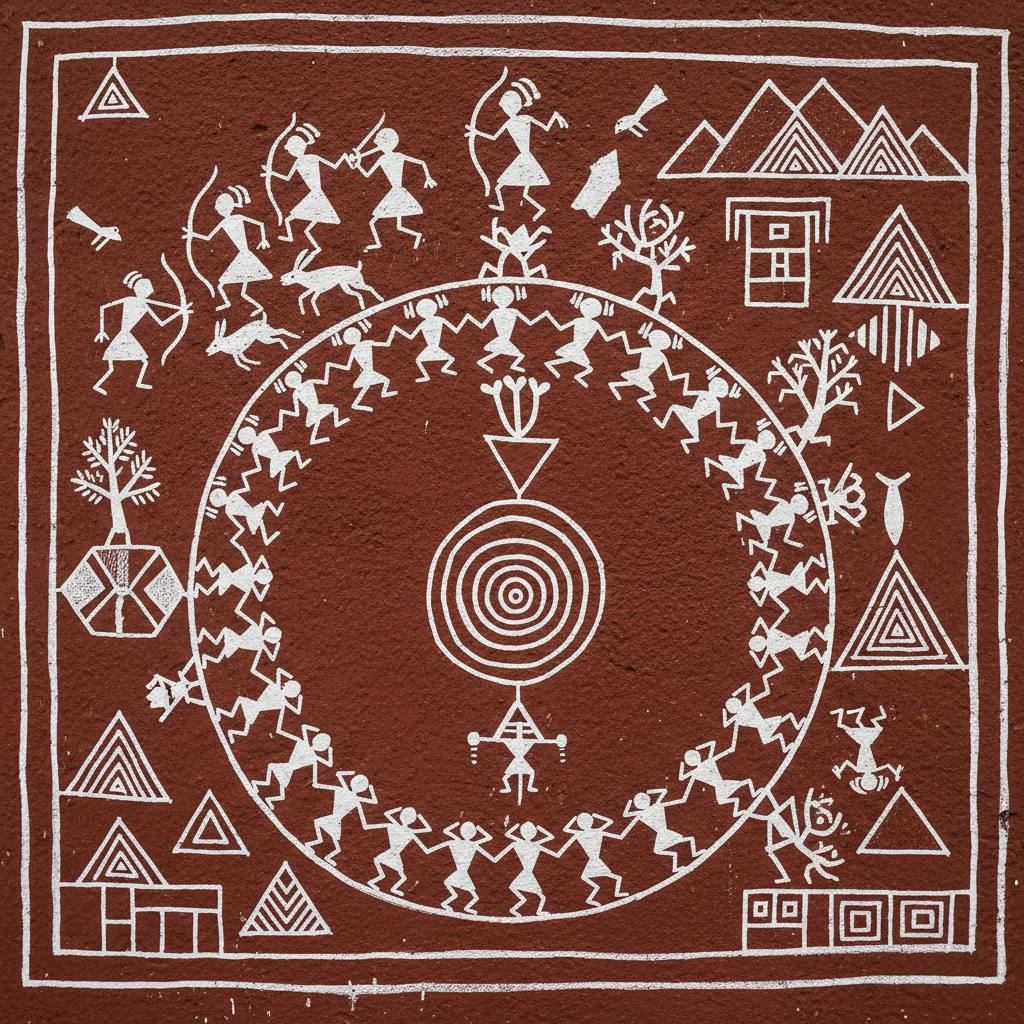
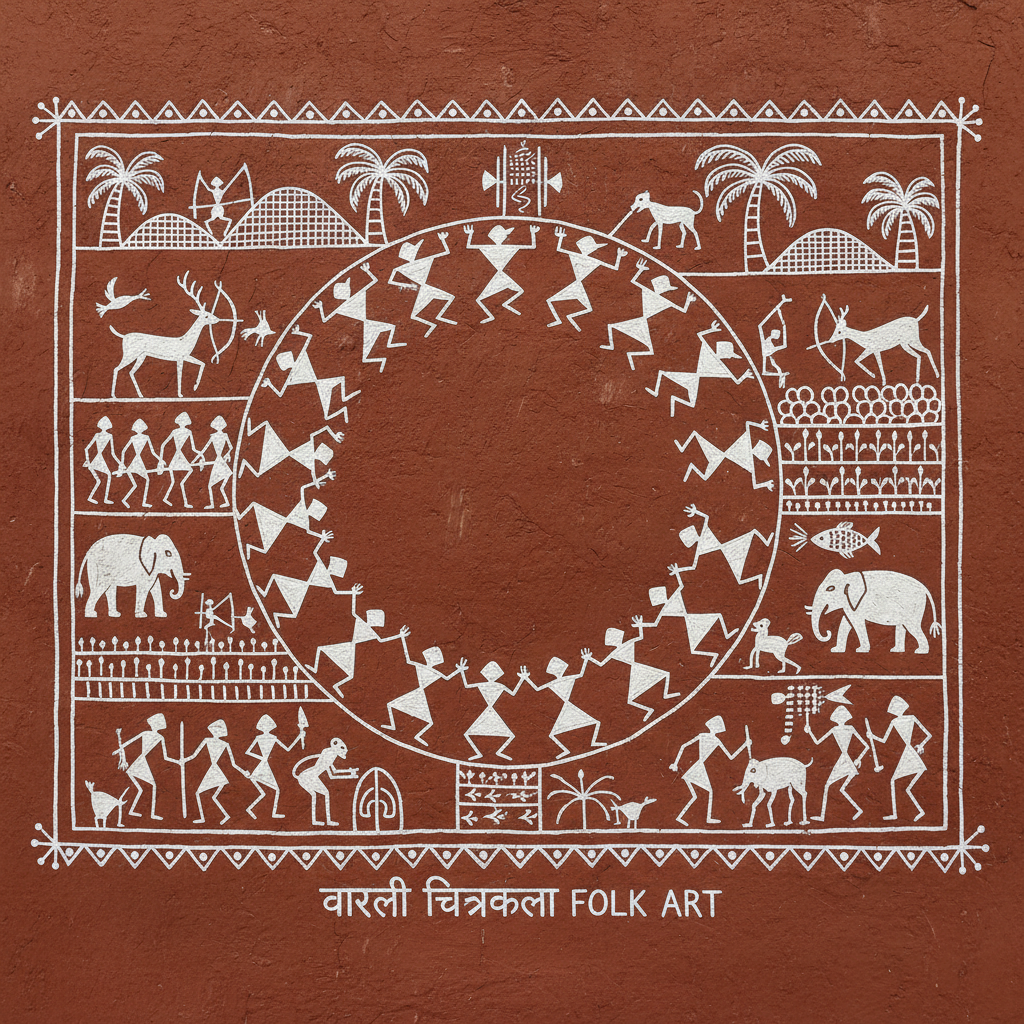
Add 3 styles: Calligraphy (書道/الخط global), Warli Art (वारली Indian), Madhubani (मधुबनी Indian) - all with AI concept artwork

diff --git a/11-millennium-nostalgia/warli-art.md b/11-millennium-nostalgia/warli-art.md
@@ -1,54 +1,63 @@
-# Warli Art 瓦尔利绘画
+# Warli Art 瓦尔利画 | वारली चित्रकला
 
-> **"白色的圆圈和三角形——部落的记忆在赭红色的墙上跳舞。"**
+> **"白色的记忆——印度部落用米糊在泥墙上画出最简洁的生命故事。"**
 
 ## 概述
 
-瓦尔利绘画（Warli Art / वारली चित्रकला）是印度马哈拉施特拉邦（Maharashtra）北部瓦尔利部落（Warli tribe）的传统绘画艺术，历史可追溯至公元前2500年。这种绘画以其极简的几何语言著称——仅使用圆形、三角形和方形三种基本形状，用白色米糊颜料在赭红色泥墙上描绘日常生活、节日庆典和自然世界。其简洁有力的视觉语言使其成为当代设计中广受欢迎的元素。
+瓦尔利画（Warli Art / वारली चित्रकला）是印度马哈拉施特拉邦北部瓦尔利部落（Warli / वारली）的传统壁画艺术。这种艺术使用极简的几何形状——圆形（太阳/月亮）、三角形（山/树）、方形（土地/圣地）——在红棕色泥墙上用白色米糊绘制人物、动物和日常生活场景。瓦尔利画的人物由两个三角形组成（上身和下身），极度简化却充满动感。这种艺术有2000-3000年的历史，与印度河文明的岩画有相似之处。
 
 ## 核心特征
 
-- **三种基本形状**：圆形（太阳/月亮）、三角形（山/人体）、方形（土地/神圣空间）
-- **白色颜料**：米糊+水+阿拉伯胶，用竹签或草茎绘制
-- **赭红底色**：牛粪和红土混合的泥墙
-- **火柴人造型**：人物由三角形身体和线条四肢组成
-- **叙事性**：连续场景讲述故事
-- **集体活动**：描绘舞蹈、狩猎、播种、收获等群体场景
+- **白色米糊**：在红棕色泥墙上绘制
+- **几何简化**：圆、三角、方形
+- **火柴人**：两个三角形组成的人物
+- **叙事性**：描绘日常生活和仪式
+- **集体创作**：女性在节日时集体绘制
+- **非透视**：平面化的构图
 
-## 常见主题
+## 常见题材
 
-| 主题 | 描绘方式 |
-|------|----------|
-| Tarpa舞蹈 | 围成圆圈的舞者，中心有乐手 |
-| 婚礼 | 新人、宾客、仪式场景 |
-| 狩猎 | 猎人与动物的追逐 |
-| 农耕 | 播种、收获、牛车 |
-| 生命之树 | 中心大树，周围是动物和人 |
-| Palghat（神圣方形） | 婚礼时绘制的神圣图案 |
+| 题材 | 特征 |
+|------|------|
+| Tarpa舞蹈 | 围成圆圈的集体舞 |
+| 婚礼 | 婚礼仪式场景 |
+| 狩猎 | 弓箭狩猎 |
+| 农耕 | 播种收割 |
+| 动物 | 牛、马、鸟、鱼 |
+| 生命之树 | 中心大树 |
 
 ## 视觉特征
 
-- 白色线条在深色背景上的强烈对比
-- 极简的几何化人物和动物
-- 鸟瞰和侧面视角的混合
-- 重复的节奏感和韵律
-- 无透视的平面空间
-- 集体场景的环形或带状构图
+- 白色在红棕色底上的对比
+- 极简的几何人物造型
+- 重复排列的节奏感
+- 圆形构图（Tarpa舞蹈）
+- 平面化的叙事场景
+- 原始而现代的视觉力量
+
+## 当代影响
+
+| 领域 | 特征 |
+|------|------|
+| 当代艺术 | Jivya Soma Mashe等艺术家 |
+| 平面设计 | Warli图案的商业应用 |
+| 时装 | Warli印花面料 |
+| 室内设计 | Warli壁画装饰 |
+| 动画 | Warli风格的动画 |
 
 ## 与其他风格的关系
 
 | 风格 | 关系 |
 |------|------|
-| Madhubani | 共享印度民间绘画传统，但风格截然不同 |
-| 澳大利亚原住民艺术 | 共享部落叙事和几何语言 |
-| Keith Haring | 共享简化人形和动态线条 |
-| 洞穴壁画 | 共享原始的叙事冲动 |
-| 极简主义 | 共享几何纯粹性 |
-| 当代平面设计 | Warli元素广泛用于品牌和包装 |
+| Rangoli地画 | 共享印度装饰传统 |
+| 岩画 Cave Art | 共享原始绘画传统 |
+| Keith Haring | 共享简化人物和动感 |
+| Mudcloth泥染布 | 共享几何符号系统 |
+| 当代极简 | Warli的现代美学价值 |
 
 ## 概念图
 
-![Warli Art 瓦尔利绘画概念图](../assets/artworks/warli-art/warli-art-concept-01.png)
+![Warli Art 瓦尔利画概念图](../assets/artworks/warli-art/warli-art-concept-01.png)
 
 ---
 

diff --git a/11-millennium-nostalgia/calligraphy.md b/11-millennium-nostalgia/calligraphy.md
@@ -1,0 +1,71 @@
+# Calligraphy 书法 | 書道 / الخط / Calligraphie
+
+> **"笔尖的舞蹈——从甲骨到宣纸，从芦苇笔到鹅毛笔，文字本身就是最古老的艺术。"**
+
+## 概述
+
+书法（Calligraphy / 書道 しょどう / الخط العربي / Calligraphie）是以文字书写为载体的视觉艺术，将实用的文字提升为审美对象。世界上有三大独立的书法传统：东亚书法（中国書法→日本書道→韩国書藝）、伊斯兰书法（الخط العربي）和西方书法（Latin Calligraphy）。每种传统都发展出独特的工具、风格和美学体系。书法不仅是视觉艺术，更是身体的修行——呼吸、姿态、心境都融入每一笔中。
+
+## 三大传统
+
+| 传统 | 工具 | 核心美学 |
+|------|------|----------|
+| 东亚 | 毛笔、墨、宣纸 | 气韵生动、骨法用笔 |
+| 伊斯兰 | 芦苇笔（Qalam） | 几何精确、神圣文字 |
+| 西方 | 鹅毛笔/金属笔尖 | 节奏、比例、装饰 |
+
+## 东亚书法主要书体
+
+| 书体 | 特征 |
+|------|------|
+| 篆书 | 最古老，圆润对称 |
+| 隶书 | 蚕头雁尾 |
+| 楷书 | 端正规范 |
+| 行书 | 流畅连贯 |
+| 草书 | 极度简化，如舞蹈 |
+
+## 伊斯兰书法主要字体
+
+| 字体 | 特征 |
+|------|------|
+| Naskh نسخ | 日常书写，清晰 |
+| Thuluth ثلث | 装饰性，清真寺 |
+| Diwani ديواني | 奥斯曼宫廷 |
+| Nastaliq نستعلیق | 波斯/乌尔都 |
+| Kufic كوفي | 最古老，几何 |
+
+## 核心特征
+
+- **工具性**：笔、墨、纸的物质性
+- **身体性**：呼吸和姿态的修行
+- **时间性**：不可修改的一次性
+- **精神性**：书写即冥想
+- **文化性**：承载文明的记忆
+- **美学性**：文字本身的视觉美
+
+## 视觉特征
+
+- 墨色的浓淡干湿变化
+- 笔画的粗细节奏
+- 结构的平衡与张力
+- 留白的空间美学
+- 线条的力量与优雅
+- 整体的气韵和节奏
+
+## 与其他风格的关系
+
+| 风格 | 关系 |
+|------|------|
+| Typography字体设计 | 书法是字体的源头 |
+| Blackletter哥特字体 | 西方书法的一种 |
+| 泥金手抄本 | 书法+装饰 |
+| 当代抽象艺术 | 书法的抽象表现 |
+| 平面设计 | 书法的当代应用 |
+
+## 概念图
+
+![Calligraphy 书法概念图](../assets/artworks/calligraphy/calligraphy-concept-01.png)
+
+---
+
+*浮光艺志 | Chronicle of Artistry*

diff --git a/11-millennium-nostalgia/madhubani.md b/11-millennium-nostalgia/madhubani.md
@@ -1,0 +1,64 @@
+# Madhubani 米提拉画 | मधुबनी चित्रकला
+
+> **"每一面墙都是一本书——比哈尔邦的女性用天然颜料在泥墙上绘制神话和宇宙。"**
+
+## 概述
+
+米提拉画/马杜巴尼画（Madhubani / मधुबनी चित्रकला）是印度比哈尔邦米提拉地区（Mithila）的传统壁画和纸画艺术。"Madhubani"意为"蜂蜜的森林"。这种艺术由女性在婚礼和节日时在家中泥墙上绘制，使用天然颜料（姜黄、靛蓝、朱砂、炭黑、米糊）。图案以双线轮廓为特征，内部填满精细的图案，不留任何空白。1934年大地震后，英国殖民官员发现了这种艺术，使其从私密的家庭空间走向世界。
+
+## 主要风格
+
+| 风格 | 种姓 | 特征 |
+|------|------|------|
+| Bharni | 婆罗门 | 填色为主，神话题材 |
+| Kachni | 婆罗门 | 线描为主，精细 |
+| Tantrik | 刹帝利 | 密宗符号 |
+| Godna | 低种姓 | 纹身图案风格 |
+| Kohbar | 各种姓 | 婚房装饰 |
+
+## 核心特征
+
+- **双线轮廓**：所有形状用双线勾勒
+- **填满空白**：不留任何空白空间
+- **天然颜料**：植物和矿物颜料
+- **女性传统**：主要由女性创作
+- **神话题材**：印度教神话和仪式
+- **鱼眼**：人物的标志性大眼睛
+
+## 常见题材
+
+| 题材 | 特征 |
+|------|------|
+| 克里希纳 | 牧牛神的故事 |
+| 湿婆-帕尔瓦蒂 | 婚礼主题 |
+| 太阳和月亮 | 宇宙象征 |
+| 莲花池 | 丰饶和纯洁 |
+| 生命之树 | 宇宙树 |
+| 鱼 | 丰饶、好运 |
+
+## 视觉特征
+
+- 鲜艳的天然颜料色彩
+- 双线轮廓的独特风格
+- 密集填充无空白
+- 大眼睛的程式化人物
+- 花卉和几何的填充图案
+- 平面化的叙事构图
+
+## 与其他风格的关系
+
+| 风格 | 关系 |
+|------|------|
+| Warli瓦尔利画 | 共享印度部落艺术 |
+| Rangoli地画 | 共享印度装饰传统 |
+| Pattachitra | 共享印度叙事绘画 |
+| 当代民间艺术 | Madhubani的全球影响 |
+| 插画艺术 | Madhubani的当代应用 |
+
+## 概念图
+
+![Madhubani 米提拉画概念图](../assets/artworks/madhubani/madhubani-concept-01.png)
+
+---
+
+*浮光艺志 | Chronicle of Artistry*

diff --git a/README.md b/README.md
@@ -329,6 +329,9 @@
 | [Zentangle 禅绕画](11-millennium-nostalgia/zentangle.md) | 2004–至今 美国/全球 | 一笔一画的冥想——结构化图案 |
 | [Origami 折纸](11-millennium-nostalgia/origami.md) | 6世纪–至今 日本 | 一张纸的宇宙——折り紙 |
 | [Ikebana 花道](11-millennium-nostalgia/ikebana.md) | 6世纪–至今 日本 | 一枝花的宇宙——生け花 / 華道 |
+| [Calligraphy 书法](11-millennium-nostalgia/calligraphy.md) | 5000年–至今 全球 | 笔尖的舞蹈——書道 / الخط العربي |
+| [Warli Art 瓦尔利画](11-millennium-nostalgia/warli-art.md) | 2000年–至今 印度 | 白色的记忆——वारली चित्रकला |
+| [Madhubani 米提拉画](11-millennium-nostalgia/madhubani.md) | 古代–至今 印度 | 每一面墙都是一本书——मधुबनी चित्रकला |
 | [Concrete Art 具体艺术](11-millennium-nostalgia/concrete-art.md) | 1930–至今 | 不抽象任何东西——纯粹的形式、纯粹的色彩、纯粹的数学 |
 | [Op Art 欧普艺术](11-millennium-nostalgia/op-art.md) | 1960s/影响至今 | 黑白条纹在眼前跳动——当画布开始欺骗视觉 |
 | [Psychedelic Art 迷幻艺术](11-millennium-nostalgia/psychedelic-art.md) | 1960s–1970s/影响至今 | 万花筒色彩、流动字体——60年代反文化运动的视觉爆炸 |
